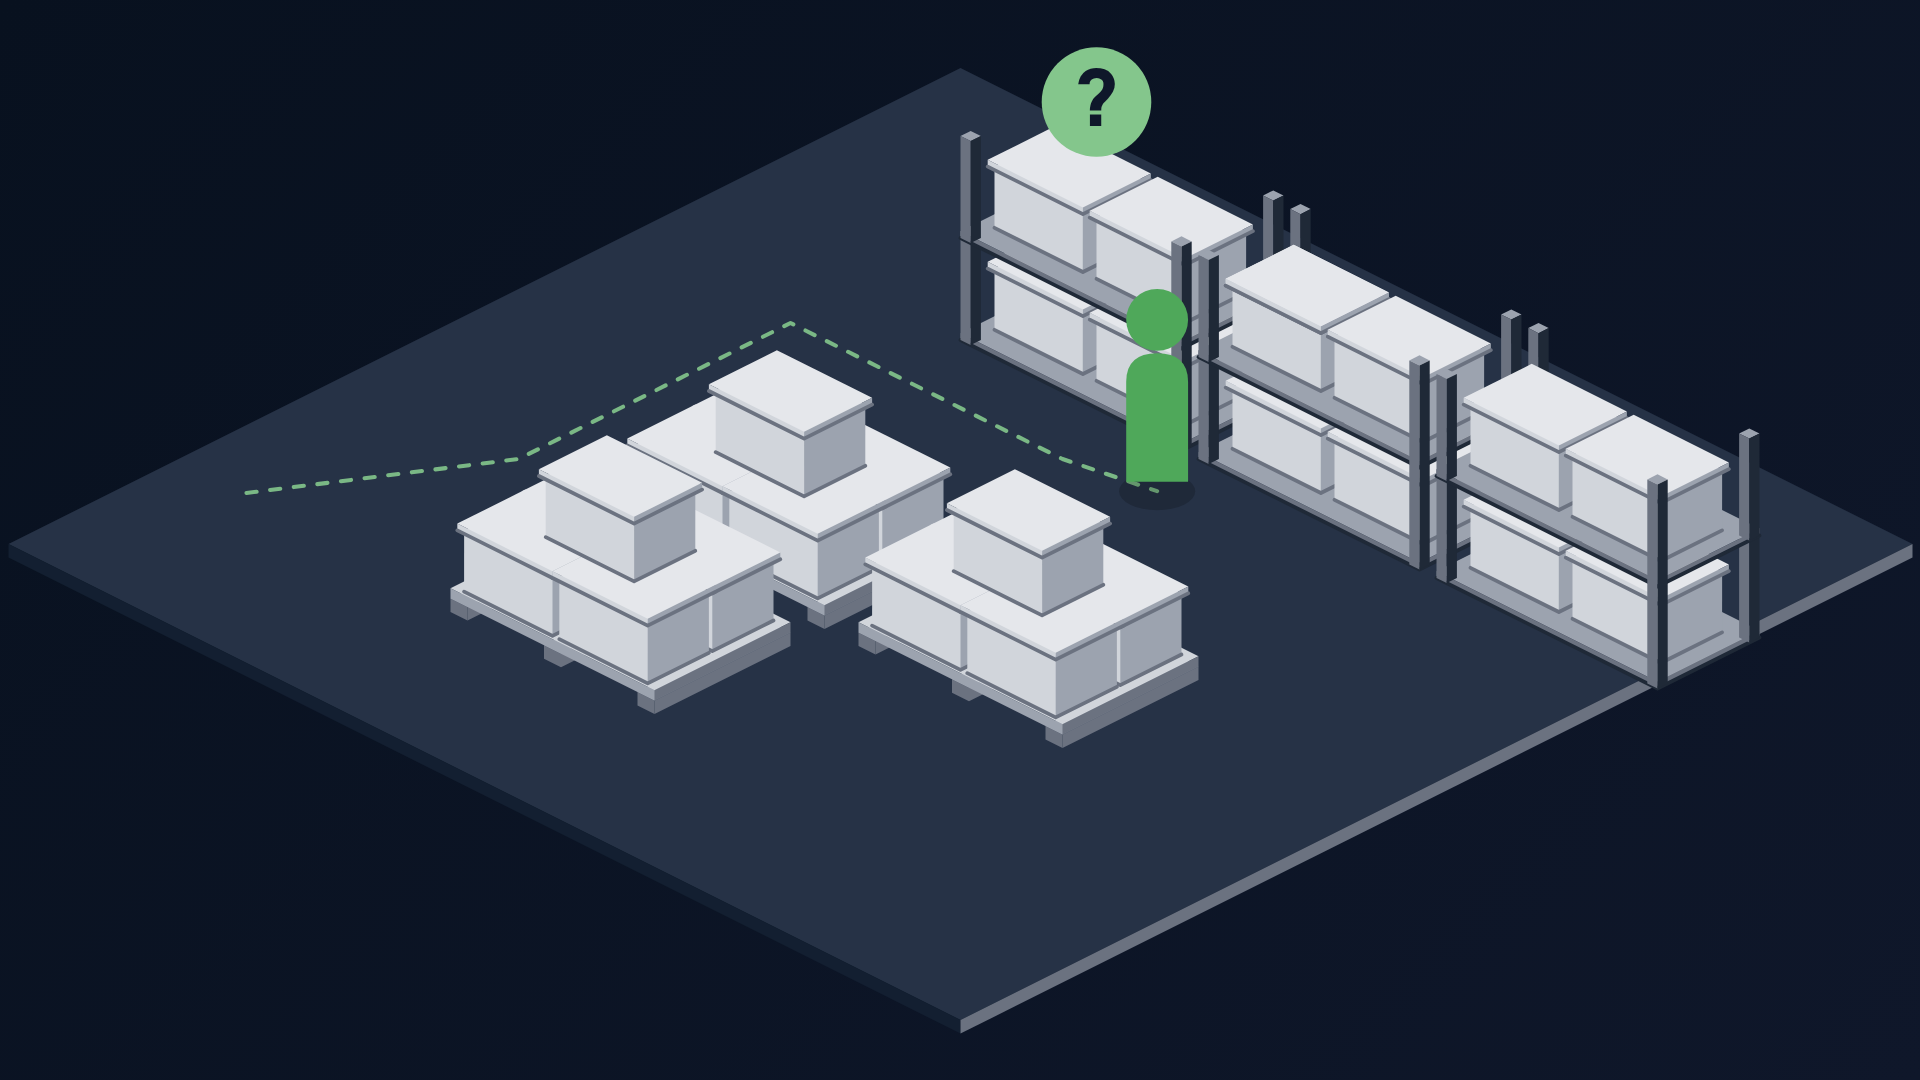
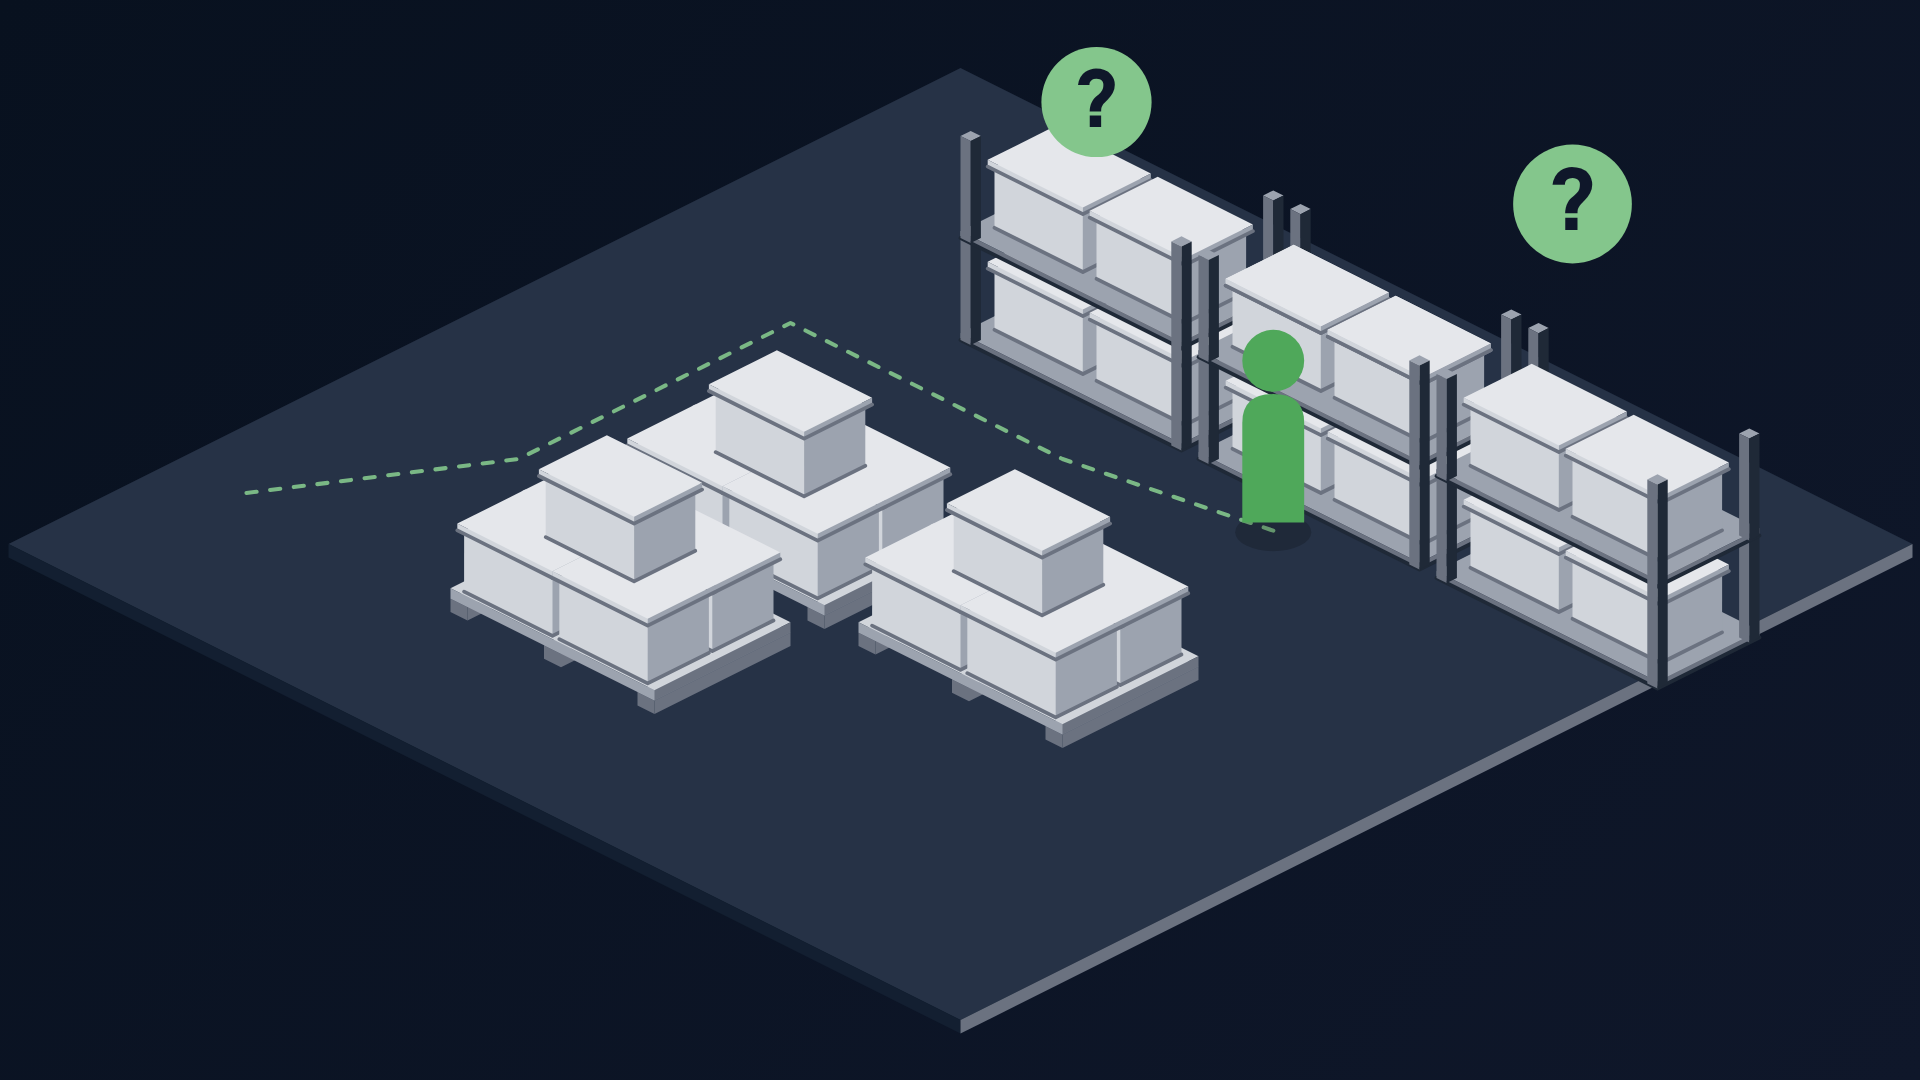
video: kolo 20 – C2-Hladanie spomalené na 14,5 s, dve vyhodené veci, obe krabice prehľadané
Claude-Session: https://claude.ai/code/session_0174g5XfE49UzAEjnWwaQFuK

Changed region(s): [[0.5625, 0.2444, 0.6875, 0.4889], [0.7812, 0.1222, 0.875, 0.2444]]

diff --git a/video/src/scenes/C2_Hladanie.tsx b/video/src/scenes/C2_Hladanie.tsx
@@ -11,22 +11,23 @@ import { BRAND, CM, ISO, SAFE } from '../theme';
 import { CAM_END, PALLETS, SEARCH_QMS, SHELF_LEVEL, SHELVES, SV, SearchCarton, TARGET_SHELF, VB, searchBox } from './C3_Sklad';
 
 /**
- * C2 - Hladanie (verzia 2: spojene C2 Kancelaria + C3 Sklad, 11 s).
- * Kancelaria: panacik otvori skrinu, "?", vyleti jeden sanon, odide doprava.
+ * C2 - Hladanie (verzia 2: spojene C2 Kancelaria + C3 Sklad, 14,5 s).
+ * Kancelaria: panacik otvori skrinu, "?", vyhodi sanon a rolku, odide doprava.
  * Kamera s nim prejde (pan) do skladu: panacik pride k regalu, kamera
- * najde na policu, jedna krabica sa vytiahne, prehlada a vrati; "?" nad
- * regalom = zaciatok C4.
+ * najde na policu, obe krabice sa postupne vytiahnu, prehladaju a vratia;
+ * "?" nad regalom = zaciatok C4.
  *
  * ms: 0 kancelaria · 300-1100 panacik ku skrini · 1100-1700 dvere · 1400/1900
- * "?" · 2000 vyhodeny sanon · 2500-3400 panacik odchadza doprava ·
- * 3500-4500 pan do skladu · 4000-5600 chodza k regalu · 4400/5000 "?" ·
- * 5000-6400 kamera na policu, 5600 sklad vybledne · 5600 krabica von ·
- * 6000-9000 otvorit, 3 zlozky, zavriet · 9000-9400 zasunut · 9500 "?".
+ * "?" · 2000/2500 vyhodeny sanon a rolka · 3200-4100 panacik odchadza ·
+ * 4200-5200 pan do skladu · 4700-6500 chodza k regalu · 5100/5700 "?" ·
+ * 6000-7400 kamera na policu, 6500 sklad vybledne · 6500 krabica A von ·
+ * 6900-10300 A: otvorit, 3 zlozky, zavriet, zasunut · 9900 krabica B von ·
+ * 10300-13700 B to iste · 13800 "?".
  */
 const PX = 2.4;
 const CAB = { x: 280, y: 40 };
 const LEVEL = (CM.cabinet.h - 3) / 3;
-const PAN_AT = 3500;
+const PAN_AT = 4200;
 
 const TopLabel: React.FC<{ x: number; y: number; z: number; lines: [string, string] }> = ({ x, y, z, lines }) => {
   const [ox, oy] = iso(x, y, z);
@@ -58,8 +59,8 @@ const Office: React.FC<{ frame: number }> = ({ frame }) => {
   const tw = (s: number, d: number) => tween(frame, s, d);
   const walk = tw(300, 800);
   const open = tw(1100, 600);
-  const leave = tw(2500, 900); // odide doprava von z framu skor, nez zacne pan
-  const qmOut = 1 - tw(2400, 300);
+  const leave = tw(3200, 900); // odide doprava von z framu skor, nez zacne pan
+  const qmOut = 1 - tw(3100, 300);
   const qm = [pop(frame, 1400) * qmOut, pop(frame, 1900) * qmOut];
   // panacik: ku skrini, potom odchadza doprava (pred skrinou) von z framu
   const atX = CAB.x - 70,
@@ -67,11 +68,11 @@ const Office: React.FC<{ frame: number }> = ({ frame }) => {
   const px = 200 + (atX - 200) * walk + (560 - atX) * leave;
   const py = 260 + (atY - 260) * walk;
   const [sx, sy] = iso(px, py, 0);
-  const thrown = tw(2000, 700);
-  const tx = CAB.x + 20 + (CAB.x - 30 - (CAB.x + 20)) * thrown,
-    ty = CAB.y + 60 + (CAB.y + 100 - (CAB.y + 60)) * thrown,
-    tz = 90 * (1 - thrown) + 80 * Math.sin(Math.PI * thrown);
-  const [tcx, tcy] = iso(tx + 16, ty + 15, tz);
+  // vyhodene veci: sanon a rolka, obluk zo skrine na podlahu, dopad v rade
+  const thrown = [
+    { start: 2000, tx: CAB.x - 30, ty: CAB.y + 100, kind: 'b' as const },
+    { start: 2500, tx: CAB.x + 15, ty: CAB.y + 96, kind: 'r' as const },
+  ];
 
   return (
     <svg width={1920} height={1080} viewBox="-400 -60 800 450" style={{ position: 'absolute', left: 0, top: 0 }}>
@@ -81,11 +82,21 @@ const Office: React.FC<{ frame: number }> = ({ frame }) => {
       <Lying x={60} y={170} z={75} label={['FAKTÚRY', '2021']} />
       <Papers x={104} y={168} z={75} h={5} />
       <Papers x={112} y={186} z={80} h={3} />
-      {thrown > 0 ? (
-        <g transform={`rotate(${(1 - thrown) * 40} ${tcx} ${tcy})`}>
-          <Lying x={tx} y={ty} z={tz} />
-        </g>
-      ) : null}
+      {thrown.map((it, i) => {
+        const t = tw(it.start, 700);
+        if (t <= 0) return null;
+        const sxp = CAB.x + 20,
+          syp = CAB.y + 60;
+        const x = sxp + (it.tx - sxp) * t,
+          y = syp + (it.ty - syp) * t;
+        const zz = 90 * (1 - t) + 80 * Math.sin(Math.PI * t);
+        const [cx, cy] = iso(x + 16, y + 15, zz);
+        return (
+          <g key={i} transform={`rotate(${(1 - t) * 40} ${cx} ${cy})`}>
+            {it.kind === 'b' ? <Lying x={x} y={y} z={zz} /> : <Roll x={x} y={y + 8} z={zz} len={90} />}
+          </g>
+        );
+      })}
       <Cabinet x={CAB.x} y={CAB.y} open={open}>
         {[4, 38, 62].map((bx, i) => (
           <Binder key={`b0${i}`} x={CAB.x + 3 + bx} y={CAB.y + 6 + [0, 10, 2][i]} z={3} d={30} />
@@ -122,7 +133,7 @@ const PATH: [number, number][] = [
 ];
 const Warehouse: React.FC<{ frame: number }> = ({ frame }) => {
   const tw = (s: number, d: number) => tween(frame, s, d);
-  const walk = tw(4000, 1600); // panacik vojde do skladu, ked je uz sklad v zabere
+  const walk = tw(4700, 1800); // panacik vojde do skladu, ked je uz sklad v zabere
   const seg = Math.min(PATH.length - 2, Math.floor(walk * (PATH.length - 1)));
   const lt = walk * (PATH.length - 1) - seg;
   const px = PATH[seg][0] + (PATH[seg + 1][0] - PATH[seg][0]) * lt;
@@ -131,13 +142,13 @@ const Warehouse: React.FC<{ frame: number }> = ({ frame }) => {
   const walked: [number, number][] = [...PATH.slice(0, seg + 1), [px, py]];
   const pathD = walked.map(([x, y], i) => `${i ? 'L' : 'M'}${iso(x, y, 0).join(' ')}`).join(' ');
   const qm: [number, number, number, number][] = [
-    [140, 60, 4400, 0],
-    [420, 60, 5000, 80],
+    [140, 60, 5100, 0],
+    [420, 60, 5700, 80],
   ];
-  const others = 1 - tw(5600, 500);
-  const A = searchBox(tw, 6000);
-  const qEnd = pop(frame, 9500);
-  const qmA = SEARCH_QMS[0];
+  const others = 1 - tw(6500, 500);
+  const A = searchBox(tw, 6900);
+  const B = searchBox(tw, 10300);
+  const qEnd = pop(frame, 13800);
 
   const Stack: React.FC<{ x: number; y: number }> = ({ x, y }) => (
     <g>
@@ -151,7 +162,7 @@ const Warehouse: React.FC<{ frame: number }> = ({ frame }) => {
   );
 
   return (
-    <Camera keys={[{ ms: 5000, x: 0, y: 0, scale: 1 }, { ms: 6400, ...CAM_END }]}>
+    <Camera keys={[{ ms: 6000, x: 0, y: 0, scale: 1 }, { ms: 7400, ...CAM_END }]}>
       <svg width={1920} height={1080} viewBox={`${VB.x} ${VB.y} ${1920 / SV} ${1080 / SV}`} style={{ position: 'absolute', left: 0, top: 0 }}>
         <g opacity={others}>
           <Floor x={-60} y={-60} w={560} d={560} fill="#263246" edge="#131F31" />
@@ -167,22 +178,23 @@ const Warehouse: React.FC<{ frame: number }> = ({ frame }) => {
                     const cx = s.x + 8 + k * 60,
                       cy = s.y + 12,
                       cz = lvl * CM.shelf.level + 4;
-                    if (isTarget && lvl === SHELF_LEVEL && k === 0) {
-                      return <SearchCarton key={`${lvl}${k}`} x={cx} y={cy} z={cz} out={A.out} lid={A.lid} binders={A.binders} />;
+                    if (isTarget && lvl === SHELF_LEVEL) {
+                      const st = k === 0 ? A : B;
+                      return <SearchCarton key={`${lvl}${k}`} x={cx} y={cy} z={cz} out={st.out} lid={st.lid} binders={st.binders} />;
                     }
                     return <Carton key={`${lvl}${k}`} x={cx} y={cy} z={cz} />;
                   })
                 }
               </ShelfFrame>
               {isTarget
-                ? (() => {
-                    // bublinka "?" pri vytiahnuti prvej zlozky (6500)
-                    const ms = 6500;
+                ? [7400, 10800].map((ms, k) => {
+                    // bublinka "?" pri vytiahnuti prvej zlozky z kazdej krabice
+                    const q = SEARCH_QMS[k];
                     const life = tw(ms, 2000);
                     const fade = 1 - tw(ms + 1600, 400);
-                    const [qx, qy] = iso(qmA[0] + Math.sin(life * Math.PI * 2) * 6, qmA[1], qmA[2] + life * 26);
-                    return <QuestionMark x={qx} y={qy} s={pop(frame, ms) * 0.55 * fade} />;
-                  })()
+                    const [qx, qy] = iso(q[0] + Math.sin(life * Math.PI * 2 + k) * 6, q[1], q[2] + life * 26);
+                    return <QuestionMark key={`q${k}`} x={qx} y={qy} s={pop(frame, ms) * 0.55 * fade} />;
+                  })
                 : null}
               {isTarget
                 ? (() => {
@@ -198,12 +210,12 @@ const Warehouse: React.FC<{ frame: number }> = ({ frame }) => {
             <Stack key={i} x={p.x} y={p.y} />
           ))}
           {qm.map(([x, y, s0, z], i) => {
-            const s = pop(frame, s0) * (1 - tw(5300, 500));
+            const s = pop(frame, s0) * (1 - tw(6000, 500));
             const [qx, qy] = iso(x, y, 140 + z);
             return <QuestionMark key={i} x={qx} y={qy} s={s * 1.8} />;
           })}
         </g>
-        <Person x={sx} y={sy} scale={1.4} color={BRAND[400]} opacity={tw(4000, 200) * (1 - tw(5400, 600))} />
+        <Person x={sx} y={sy} scale={1.4} color={BRAND[400]} opacity={tw(4700, 200) * (1 - tw(6300, 600))} />
       </svg>
     </Camera>
   );
@@ -232,8 +244,8 @@ export const C2_Hladanie: React.FC = () => {
       </div>
       {showCap ? (
         <>
-          <Caption text={captions.C2} mode="dark" t={settle(frame, 1500)} out={tw(3300, 300)} y={SAFE.captionY} />
-          <Caption text={captions.C2b} mode="dark" t={settle(frame, 7000)} y={SAFE.captionY} />
+          <Caption text={captions.C2} mode="dark" t={settle(frame, 1500)} out={tw(4000, 300)} y={SAFE.captionY} />
+          <Caption text={captions.C2b} mode="dark" t={settle(frame, 8000)} y={SAFE.captionY} />
         </>
       ) : null}
     </Scene>

diff --git a/video/src/scenesList.ts b/video/src/scenesList.ts
@@ -18,7 +18,7 @@ export type SceneDef = { component: React.FC; seconds: number; stills: number[] 
 /** Klipy (kolo 3), dlzka v sekundach a frame-y pre stills (zaciatok akcie, stred, koniec). */
 export const SCENE_LIST: [string, SceneDef][] = [
   ['C1-Intro', { component: C1_Intro, seconds: 5, stills: [45, 75, 125] }],
-  ['C2-Hladanie', { component: C2_Hladanie, seconds: 11, stills: [60, 150, 250] }],
+  ['C2-Hladanie', { component: C2_Hladanie, seconds: 14.5, stills: [70, 180, 340] }],
   ['C4-Cena', { component: C4_Cena, seconds: 9, stills: [10, 110, 250] }],
   ['C5-Teren', { component: C5_Teren, seconds: 10, stills: [70, 170, 285] }],
   ['F1-Sken', { component: F1_Sken, seconds: 12.5, stills: [30, 200, 350] }],

diff --git a/video/STORYBOARD.md b/video/STORYBOARD.md
@@ -12,7 +12,7 @@ strihový bod pre footage; náhľad Full má tvrdé strihy. Titulky v obraze sú
 | ID | Klip | Pozadie | Dej | Text v obraze | Dĺžka | Stav |
 |---|---|---|---|---|---|---|
 | C1-Intro | Intro | navy | Lockup podľa assetin-design-kitu: stohovaný logotyp „assetin“ / „.space“ vypláva, zvislý oddeľovač sa nakreslí, „Archives“ vyjde spoza neho; hold; „Archives“ sa zasunie späť, oddeľovač sa stiahne, logotyp sa priblíži a vybledne do navy | – | 5 s | ☐ ▶ |
-| C2-Hladanie | Hľadanie (kancelária → sklad) | navy | Panáčik príde ku skrini, otvorí ju, „?“, vyletí jeden šanón, odíde doprava; kamera s ním prejde panom do skladu; klučkuje k strednému regálu, „?“; kamera nájde na policu, sklad vybledne; krabica sa vytiahne z police, otvorí (vidno steny, dno, zložky), zložky sa postupne vyberú a vrátia (bublinka „?“), zavrie, zasunie; väčší „?“ nad regálom = začiatok C4 | 1,5 s „Dokumentáciu máte. V kancelárii, v sklade… niekde.“ · 7 s „Len ju nikto nevie nájsť.“ | 11 s | ☐ ▶ |
+| C2-Hladanie | Hľadanie (kancelária → sklad) | navy | Panáčik príde ku skrini, otvorí ju, „?“, vyletí šanón a rolka, odíde doprava; kamera s ním prejde panom do skladu; klučkuje k strednému regálu, „?“; kamera nájde na policu, sklad vybledne; prvá krabica sa vytiahne z police, otvorí (vidno steny, dno, zložky), zložky sa postupne vyberú a vrátia (bublinka „?“), zavrie, zasunie; to isté druhá; väčší „?“ nad regálom = začiatok C4 | 1,5 s „Dokumentáciu máte. V kancelárii, v sklade… niekde.“ · 8 s „Len ju nikto nevie nájsť.“ | 14,5 s | ☐ ▶ |
 | C4-Cena | 2× | navy | Začína rovnakým regálom ako koniec C3; regál sa odsunie doľava, vedľa neho veľký „?“, vedľa hodiny rovnakej veľkosti s točiacou sa ručičkou (hľadanie trvá), šípka k výkresu s pečiatkou (rýchlejšie spraviť nanovo); veľké cenovky pod regálom a výkresom; „2× €€€“ dole v strede | 5,8 s „Zaplatené dvakrát za tú istú dokumentáciu.“ | 9 s | ☐ ▶ |
 | C5-Teren →📹 | V sklade | biela | Zatvorená krabica, priletí hárok nálepiek A4, z neho odletí QR na krabicu (plynulý let 0,7 s, dosadne sklopená do roviny steny); veko sa otvorí, zložky vyjdú a z hárku priletia QR na každú zložku; zložky majú štítky s textom; predná sa vytiahne z krabice, mobil sa k nej priblíži a zameria na štítok, blesk, ID ZL_12 ako štítok pri rámiku; kamera nájde na zložku s mobilom a potom nájazd do displeja → biely frame = strih do reality (footage fotenia štítku) | 5 s „Nalepiť QR, odfotiť. Celá práca v teréne.“ | 10 s | ☐ ▶ |
 | F1-Sken 📹 | Footage: sken štítku | footage | Screen recording z mobilu (2 časti spojené): pridanie jednotky pod KR_01 → Priradiť QR → fotoaparát na štítok s QR → Use Photo → kontrola jednotky → Vytvoriť → nahrávanie prílohy 100 % (zrýchlené 4×). Orez na appku (bez líšt iOS/Safari), vnútri rámika mobilu vľavo; z bieleho konca C5 sa displej stiahne do mobilu; vpravo sprievodný text po krokoch (Krok 1–4) s bodkami postupu; jemné zelené tapy na tlačidlách; fade do bielej (C6) | – | 12,5 s | ☐ ▶ |
@@ -61,7 +61,7 @@ Všetko 1920×1080, 30 fps, H.264, yuv420p (obmedzený rozsah), bez zvuku.
 | Súbor | Obsah |
 |---|---|
 | `out/mp4/C1-Intro.mp4` … `C9-Outro.mp4` | klipy bez textu v obraze (titulky vypnuté, doriešia sa neskôr) |
-| `out/mp4/Full_1080p.mp4` | všetkých 9 klipov za sebou, tvrdé strihy, 78,5 s – kontrola tempa |
+| `out/mp4/Full_1080p.mp4` | všetkých 9 klipov za sebou, tvrdé strihy, 82 s – kontrola tempa |
 | `out/mp4/Full_preview_540p.mp4` | to isté v polovičnom rozlíšení |
 | `out/mp4/F_phone_enter.mp4`, `F_window_enter.mp4` | placeholder rámika zariadenia (8 s), do ktorého sa v Remotione dá vložiť footage |
 | `out/stills/contact-sheet.png` | stredný frame každého klipu v mriežke |

diff --git a/video/FEEDBACK.md b/video/FEEDBACK.md
@@ -139,3 +139,9 @@ Verzia 1 (dlhá, 88,5 s) je uložená: `out/mp4/v1/` (Full_v1_1080p.mp4, Full_v1
 | Klip | Zadanie | Riešenie |
 |---|---|---|
 | C2 + C3 | Obe scény sú „hľadanie“ (kancelária, archív); posúdiť spojenie a skrátenie, šetríme čas. | Spojené do jedného klipu **C2-Hladanie (11 s)** namiesto 8 + 13 s: kancelária (panáčik otvorí skriňu, „?“, vyletí jeden šanón, odíde doprava) → kamera s ním prejde panom do skladu (obe kulisy navy, spojité) → kratšia chôdza k regálu, kamera nájde na policu → prehľadá sa jedna krabica (vytiahne, otvorí, 3 zložky, zavrie, zasunie) → „?“ nad regálom = začiatok C4 (C4 bez zmeny). Full 78,5 s (−10 s). Nový caption: „Dokumentáciu máte. V kancelárii, v sklade… niekde.“ / „Len ju nikto nevie nájsť.“ (texty v obraze ostávajú vypnuté). |
+
+## Kolo 20 (21. 9. 2026)
+
+| Klip | Zadanie | Riešenie |
+|---|---|---|
+| C2 Hľadanie | Teraz je to zas extrémne rýchle; v kancelárii nech vyhodí zo skrine aspoň dve veci; v sklade treba postupne prehľadať obe krabice. | Klip predĺžený z 11 na 14,5 s. Kancelária: vyletí šanón aj rolka (2,0 / 2,5 s), panáčik odchádza až v 3,2 s, pan do skladu 4,2–5,2 s. Sklad: chôdza 1,8 s, kamera na policu 6,0–7,4 s, krabica A sa vytiahne, prehľadá a zasunie (6,5–10,3 s), potom to isté krabica B (9,9–13,7 s), pri každej bublinka „?“; veľký „?“ 13,8 s. Full 82 s. |

diff --git a/video/VOICEOVER.md b/video/VOICEOVER.md
@@ -7,10 +7,10 @@ náhovor ho neopakuje doslova.
 ## C1 · Intro (4 s)
 _(bez náhovoru)_
 
-## C2 · Hľadanie (11 s) – verzia 2 (spojené C2 + C3)
-- 0–3,5 s: „Dokumentáciu k svojim objektom máte. V skrini pri stole, v šanónoch, v rolkách paré…“ — _Dokumentáciu máte. V kancelárii, v sklade… niekde._
-- 3,5–6 s: „…alebo v archíve: palety, regály, krabice bez označenia.“
-- 6–11 s: _Len ju nikto nevie nájsť._ — „Jediný spôsob je otvoriť krabicu a prejsť ju zložku po zložke. A často sa nenájde nič.“
+## C2 · Hľadanie (14,5 s) – verzia 2 (spojené C2 + C3)
+- 0–4 s: „Dokumentáciu k svojim objektom máte. V skrini pri stole, v šanónoch, v rolkách paré…“ — _Dokumentáciu máte. V kancelárii, v sklade… niekde._
+- 4–7 s: „…alebo v archíve: palety, regály, krabice bez označenia.“
+- 7–14,5 s: _Len ju nikto nevie nájsť._ — „Jediný spôsob je otvoriť krabicu a prejsť ju zložku po zložke. A potom ďalšiu. A často sa nenájde nič.“
 
 ## C4 · Cena (9 s)
 - 0–3 s: „Archív, v ktorom sa nedá hľadať, nie je archív. Je to náklad. Platíte za uskladnenie…“

diff --git a/video/README.md b/video/README.md
@@ -92,5 +92,5 @@ Väčšia firma potrebuje Company License – pozri LICENSE v balíku `remotion`
 
 ## Verzie
 
-- **Verzia 2 (aktuálna, 78,5 s)**: C2-Hladanie nahrádza C2-Kancelaria + C3-Sklad.
+- **Verzia 2 (aktuálna, 82 s)**: C2-Hladanie nahrádza C2-Kancelaria + C3-Sklad.
 - **Verzia 1 (88,5 s)**: rendre v `out/mp4/v1/` a `out/stills/v1/`; scény ostávajú v `src/scenes/` (`V1_LIST` v `scenesList.ts`, `npm run stills`/`render` ich preskakujú).
